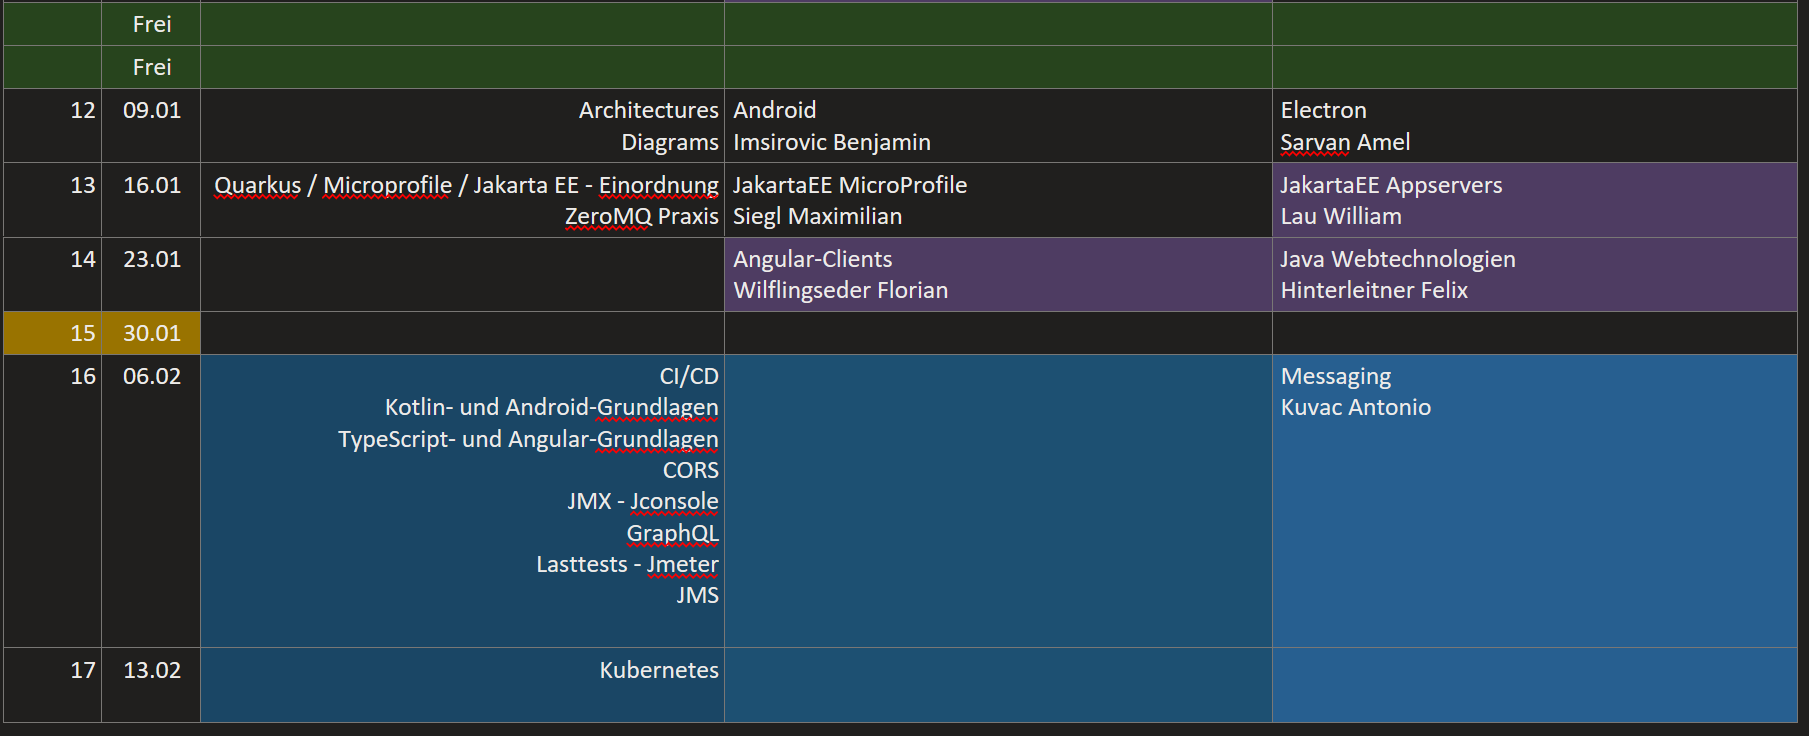
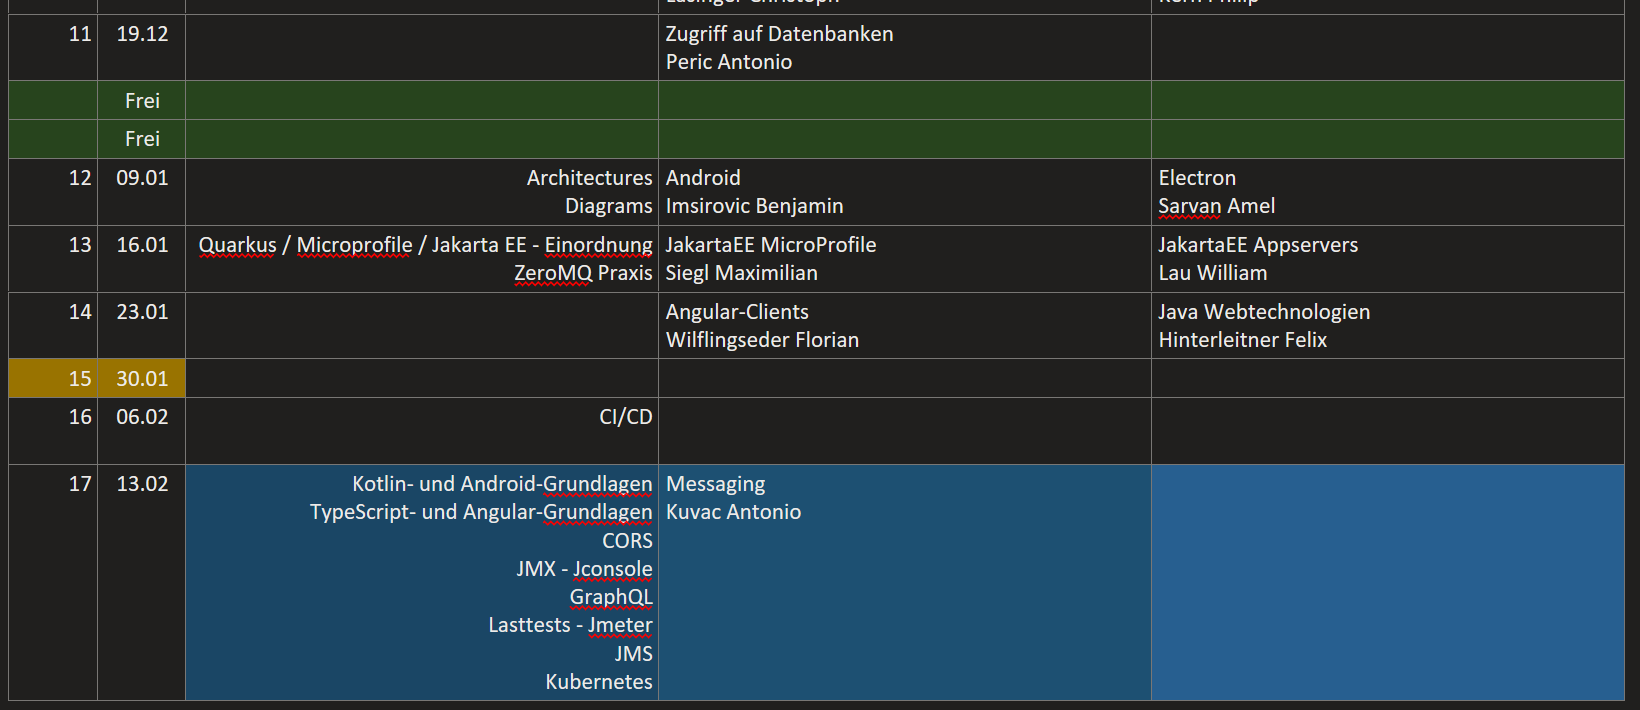
update

diff --git a/5CHIF-NVSV.md b/5CHIF-NVSV.md
@@ -18,11 +18,10 @@ https://classroom.github.com/a/QTfc9_Zk
 
 
 
-## 16. Einheit 2023-02-06
+## 17. Einheit 2023-02-13
 
 * Mitarbeitsüberprüfung
-* Build-Pipeline von Zero-MQ Beispiel herzeigen und kurz durchgehen
-* [CI/CD](https://github.com/UnterrainerInformatik/htl/blob/master/presentations/ci-cd.pdf)
+* [CI/CD](https://github.com/UnterrainerInformatik/htl/blob/master/presentations/ci-cd.pdf) ab "Deploy - Wie bekomme ich mein Programm auf den Rechner beim Kunden"
 * [Kotlin-Android-JetpackCompose-Basics](https://github.com/UnterrainerInformatik/htl/blob/master/presentations/kotlin-android-basics.pdf)
 * [Typescript-Angular-Basics](https://github.com/UnterrainerInformatik/htl/blob/master/presentations/typescript-angluar-basics.pdf)
 * Fragen
@@ -36,6 +35,17 @@ https://classroom.github.com/a/QTfc9_Zk
       * REST (HTTP), gRPC, Kafka, Message Brokers (RabbitMQ, ZeroMQ zum selber bauen)
     * Warum würde man bei hoch performanten Systemen eher nicht REST (HTTP) verwenden?
     * Was heißt pull-based / push-based bei Message Brokern?
+
+### Hausübung
+
+Nichts
+
+
+
+## 16. Einheit 2023-02-06
+
+* Mitarbeitsüberprüfung
+* [CI/CD](https://github.com/UnterrainerInformatik/htl/blob/master/presentations/ci-cd.pdf) bis "Deploy - Wie bekomme ich mein Programm auf den Rechner beim Kunden"
 
 ### Hausübung
 

diff --git a/5BHIF-NVSV.md b/5BHIF-NVSV.md
@@ -18,10 +18,10 @@ https://classroom.github.com/a/0pIFwT2Q
 
 
 
-## 16. Einheit 2023-02-06
+## 17. Einheit 2023-02-13
 
 * Mitarbeitsüberprüfung
-* [CI/CD](https://github.com/UnterrainerInformatik/htl/blob/master/presentations/ci-cd.pdf)
+* [CI/CD](https://github.com/UnterrainerInformatik/htl/blob/master/presentations/ci-cd.pdf) nochmal "Environment Variables - Quarkus"
 * [Kotlin-Android-JetpackCompose-Basics](https://github.com/UnterrainerInformatik/htl/blob/master/presentations/kotlin-android-basics.pdf)
 * [Typescript-Angular-Basics](https://github.com/UnterrainerInformatik/htl/blob/master/presentations/typescript-angluar-basics.pdf)
 * Fragen
@@ -36,7 +36,16 @@ https://classroom.github.com/a/0pIFwT2Q
     * Warum würde man bei hoch performanten Systemen eher nicht REST (HTTP) verwenden?
     * Was heißt pull-based / push-based bei Message Brokern?
 
+### Hausübung
 
+Nichts
+
+
+
+## 16. Einheit 2023-02-06
+
+* Mitarbeitsüberprüfung
+* [CI/CD](https://github.com/UnterrainerInformatik/htl/blob/master/presentations/ci-cd.pdf)
 
 ### Hausübung
 
